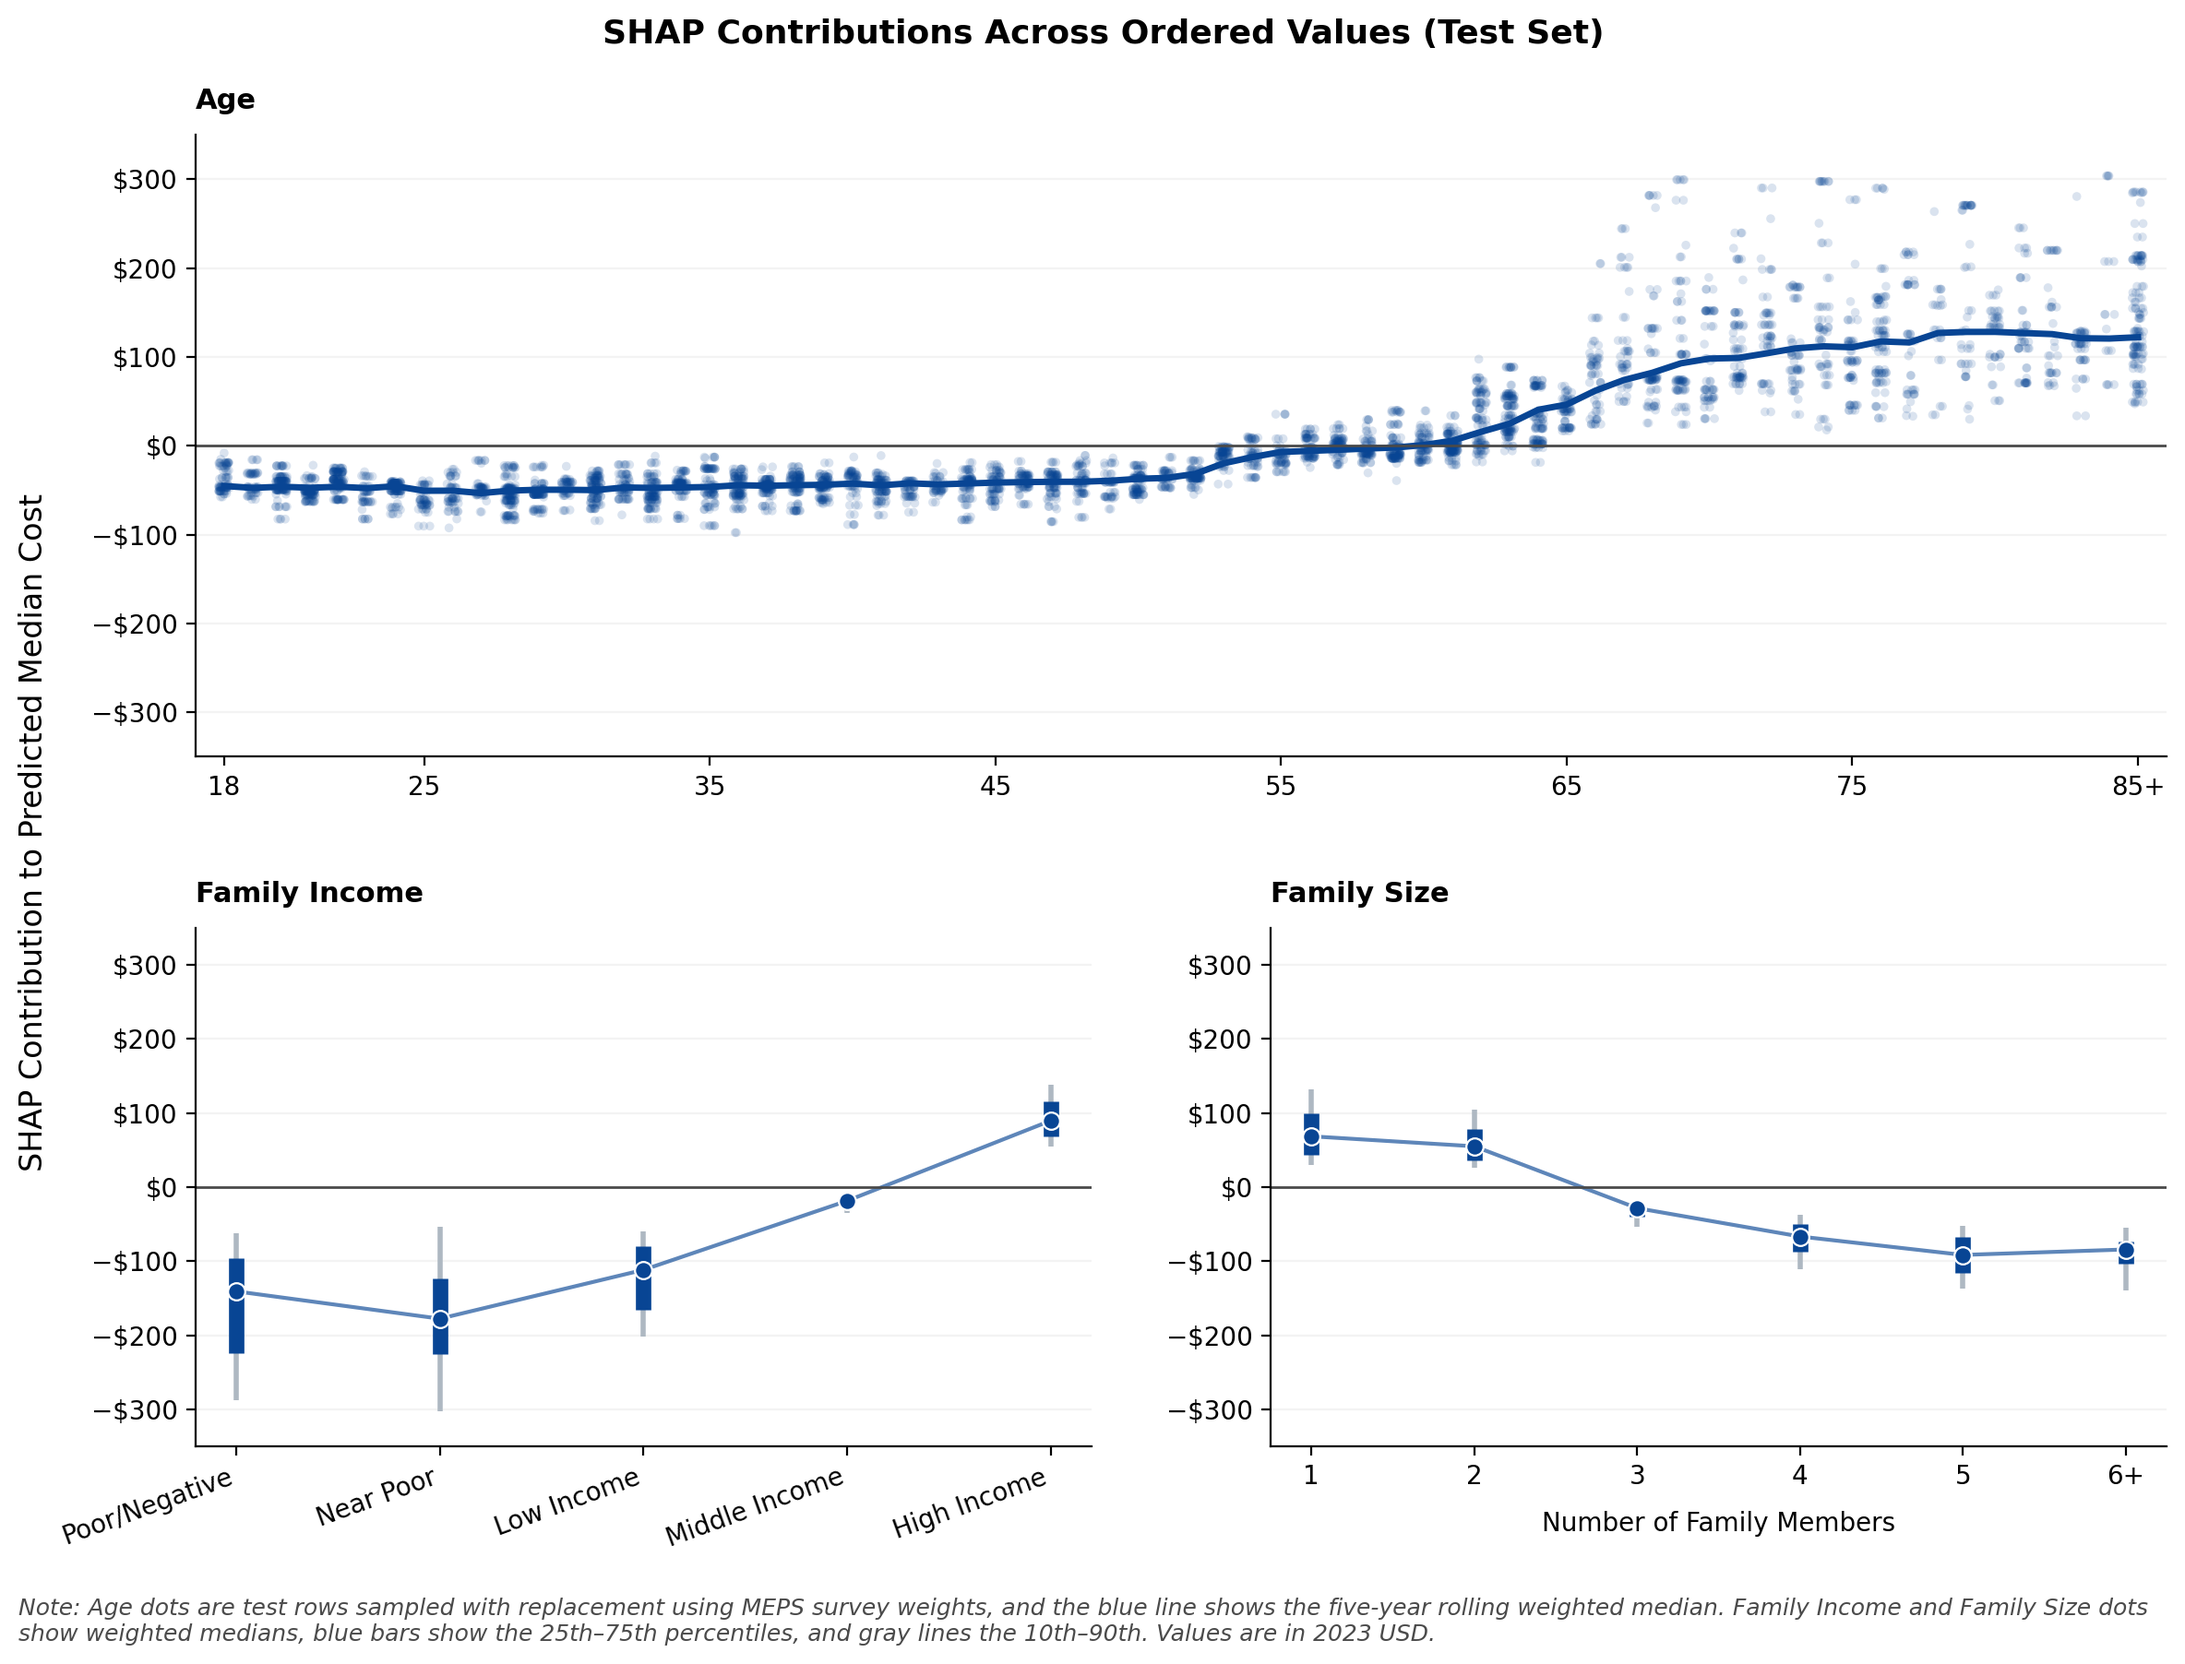
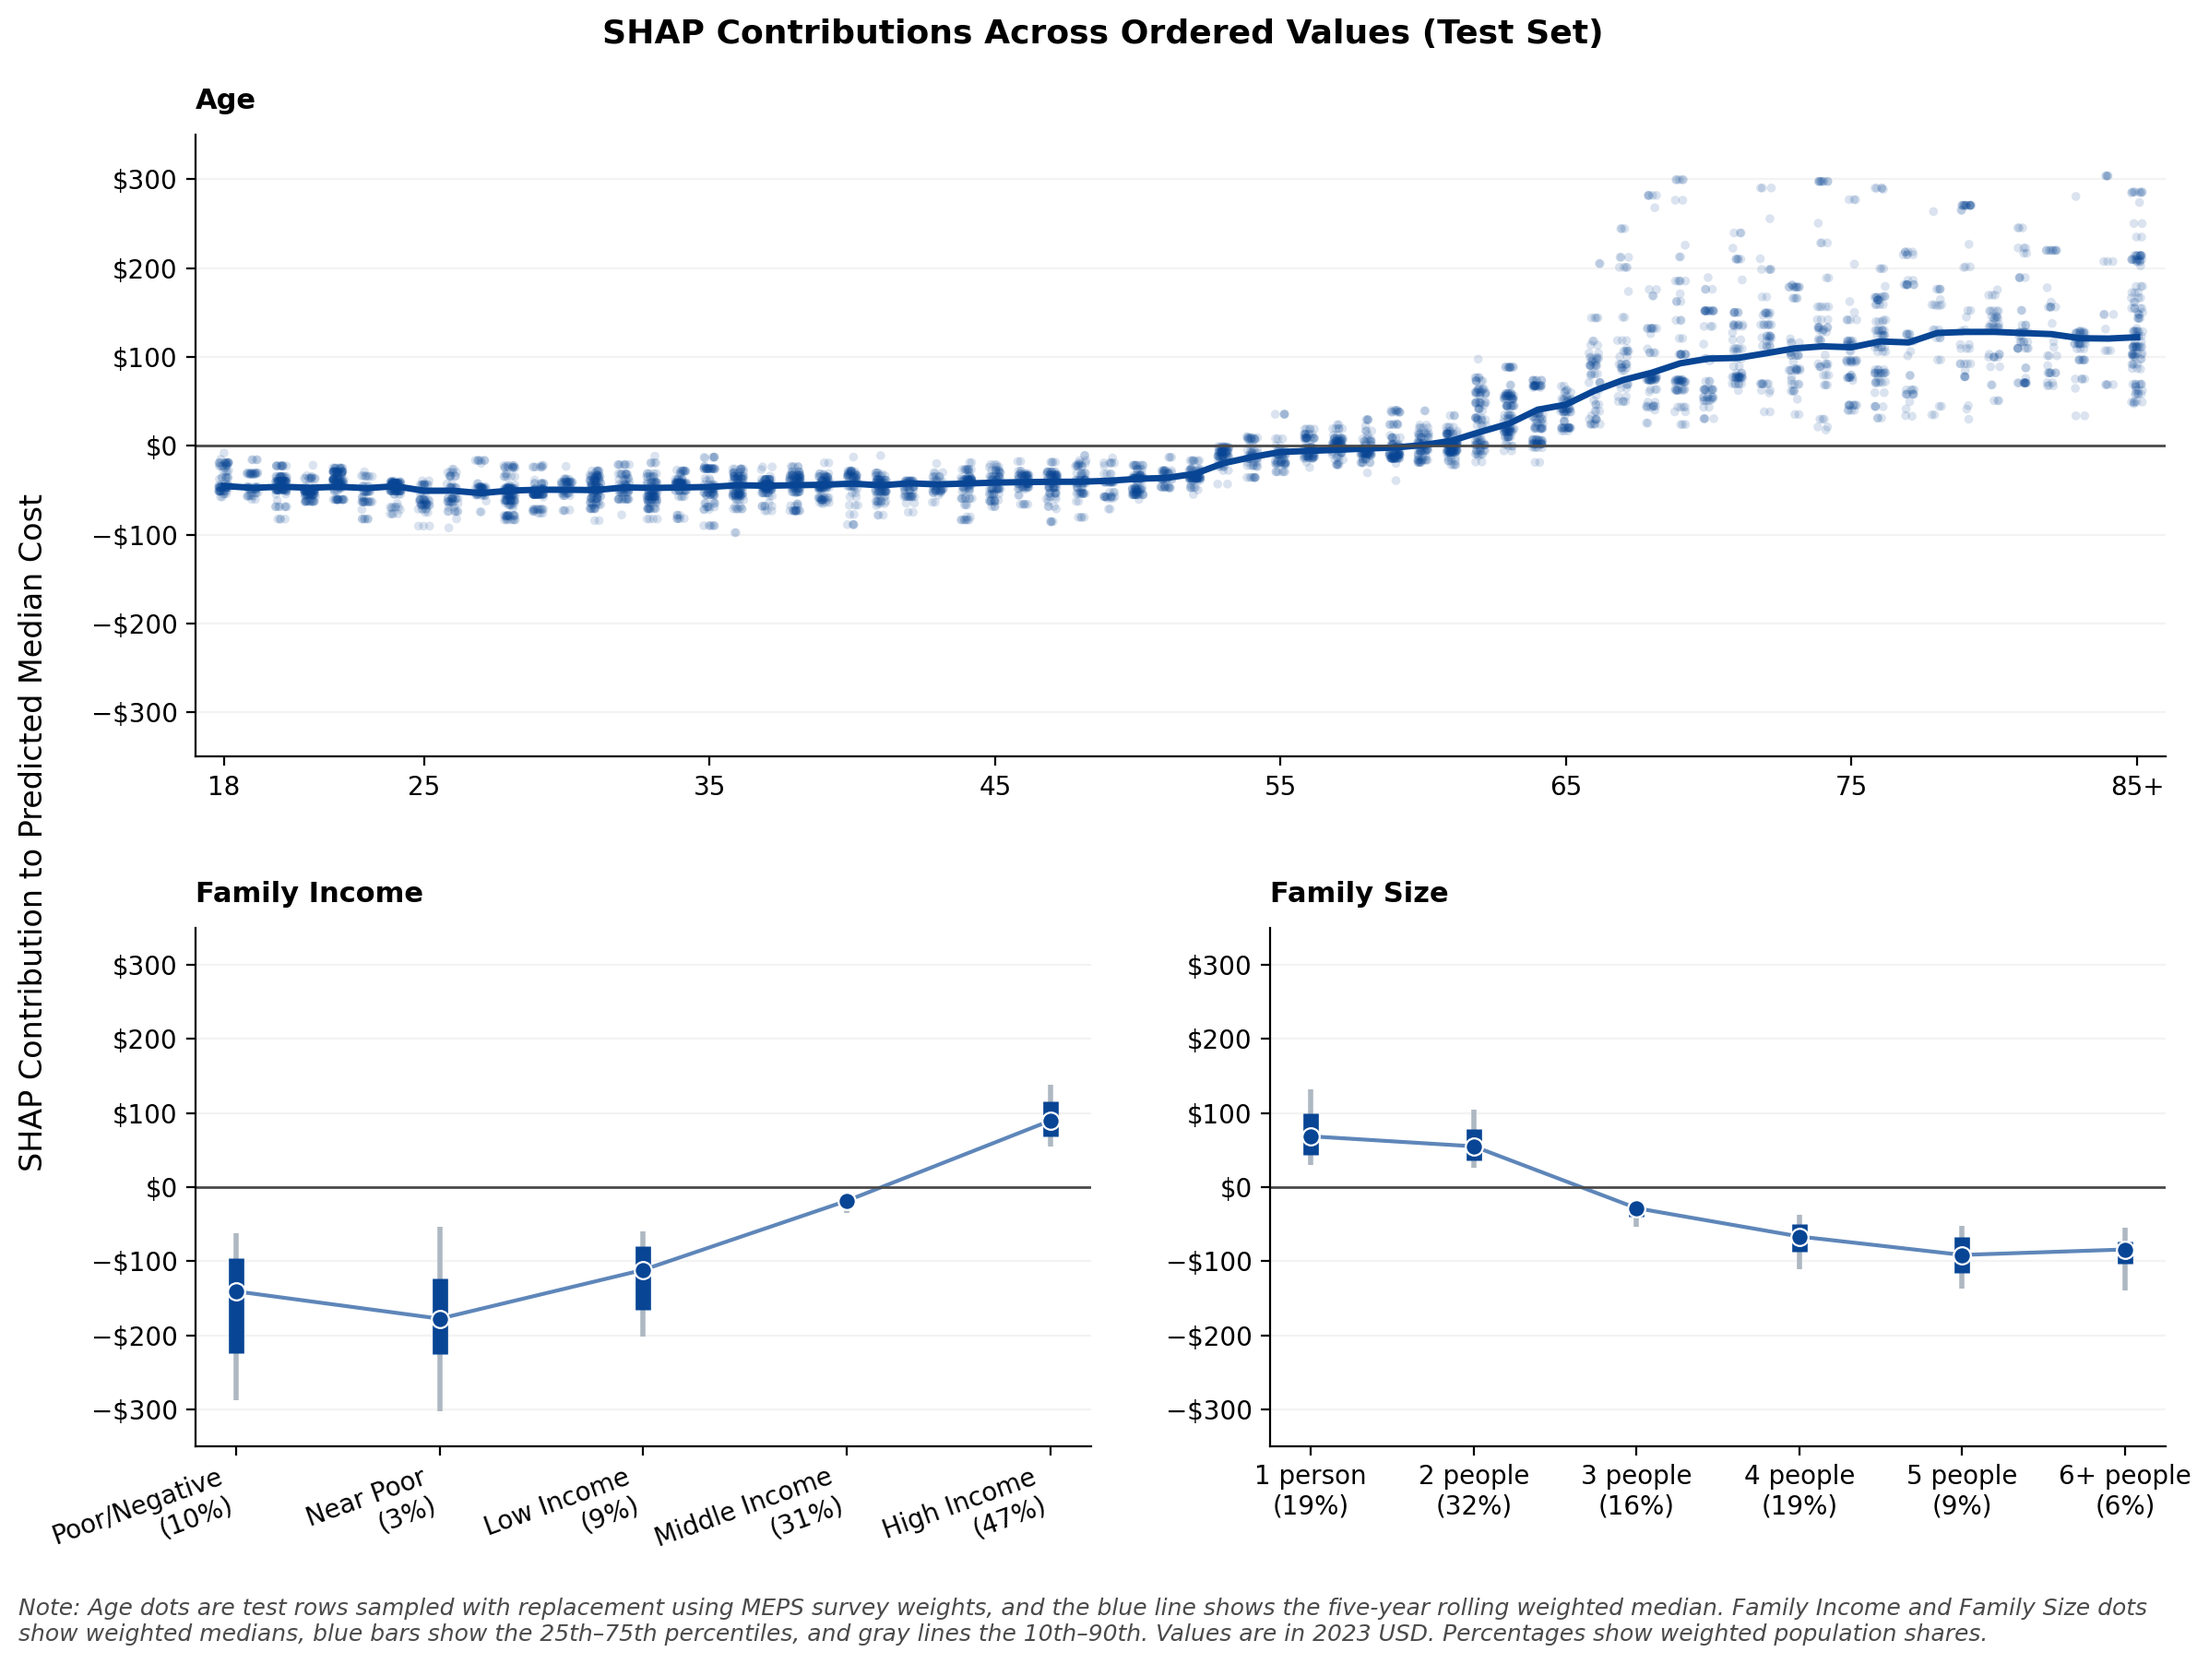
feat(eval): show population shares in SHAP ordered feature contributions plot

diff --git a/notebooks/2_modeling.py b/notebooks/2_modeling.py
@@ -6033,6 +6033,13 @@ for income_value, income_label in CATEGORY_LABELS_EDA["POVCAT23"].items():
     shap_ordered_summary_rows.append({
         "Feature": "POVCAT23",
         "Value": income_label,
+        "Population Share": (
+            shap_test_contributions.loc[
+                income_mask,
+                WEIGHT_COLUMN,
+            ].sum()
+            / shap_total_test_weight
+        ),
         "P10": income_quantiles[0],
         "P25": income_quantiles[1],
         "Median": income_quantiles[2],
@@ -6054,6 +6061,13 @@ for family_size_label, family_size_mask in family_size_groups:
     shap_ordered_summary_rows.append({
         "Feature": "FAMSZE23",
         "Value": family_size_label,
+        "Population Share": (
+            shap_test_contributions.loc[
+                family_size_mask,
+                WEIGHT_COLUMN,
+            ].sum()
+            / shap_total_test_weight
+        ),
         "P10": family_size_quantiles[0],
         "P25": family_size_quantiles[1],
         "Median": family_size_quantiles[2],
@@ -6143,7 +6157,20 @@ def plot_ordered_shap_intervals(ax, feature, title):
         s=45,
         zorder=3,
     )
-    ax.set_xticks(positions, feature_summary["Value"])
+    value_labels = feature_summary["Value"].astype(str).tolist()
+    if feature == "FAMSZE23":
+        value_labels = [
+            f"{value} person" if value == "1" else f"{value} people"
+            for value in value_labels
+        ]
+    tick_labels = [
+        f"{value}\n({population_share:.0%})"
+        for value, population_share in zip(
+            value_labels,
+            feature_summary["Population Share"],
+        )
+    ]
+    ax.set_xticks(positions, tick_labels)
     ax.set_title(title, loc="left", fontsize=11, fontweight="bold", pad=10)
 
 
@@ -6153,7 +6180,7 @@ income_ax.tick_params(axis="x", labelrotation=20)
 for label in income_ax.get_xticklabels():
     label.set_horizontalalignment("right")
 
-family_size_ax.set_xlabel("Number of Family Members", labelpad=8)
+
 
 plotted_contribution_min = min(
     shap_test_contributions["AGE23X"].min(),
@@ -6190,7 +6217,7 @@ fig.text(
     (
         "Note: Age dots are test rows sampled with replacement using MEPS survey weights, and the blue line shows the five-year rolling weighted median. "
         "Family Income and Family Size dots\n"
-        "show weighted medians, blue bars show the 25th–75th percentiles, and gray lines the 10th–90th. Values are in 2023 USD."
+        "show weighted medians, blue bars show the 25th–75th percentiles, and gray lines the 10th–90th. Values are in 2023 USD. Percentages show weighted population shares."
     ),
     ha="left",
     va="bottom",
@@ -6210,7 +6237,7 @@ plt.show()
 # <div style="background-color:#f7fff8; padding:15px; border:3px solid #e0f0e0; border-radius:6px;">
 #     💡 <b>Insights:</b>
 #     <ul style="margin-top:10px; margin-bottom:8px">
-#         <li><strong>Age contributions rise most after the mid-50s:</strong> Age generally moves estimates down for younger adults, approaches zero around the mid-50s, and increasingly moves estimates up at older ages.</li>
+#         <li><strong>Age contributions change most after the mid-50s:</strong> The Age contribution stays fairly stable and negative through early and middle adulthood, rises from around age 55 to 75, and then levels off. Contributions also vary much more among older adults.</li>
 #         <li><strong>Family Income shows a strong ordered gradient:</strong> Poor through Middle Income generally move estimates down, while High Income moves them up. This is consistent with the access and utilization pattern identified in the EDA.</li>
 #         <li><strong>Family Size changes direction between two and three people:</strong> Family sizes of one or two generally move estimates up, while three or more move them down. The negative contribution levels off among the largest families.</li>
 #         <li><strong>Scope:</strong> These patterns show how the fitted model uses ordered feature values for q50 predictions. They do not establish that changing age, income, or family size would cause costs to change.</li>
